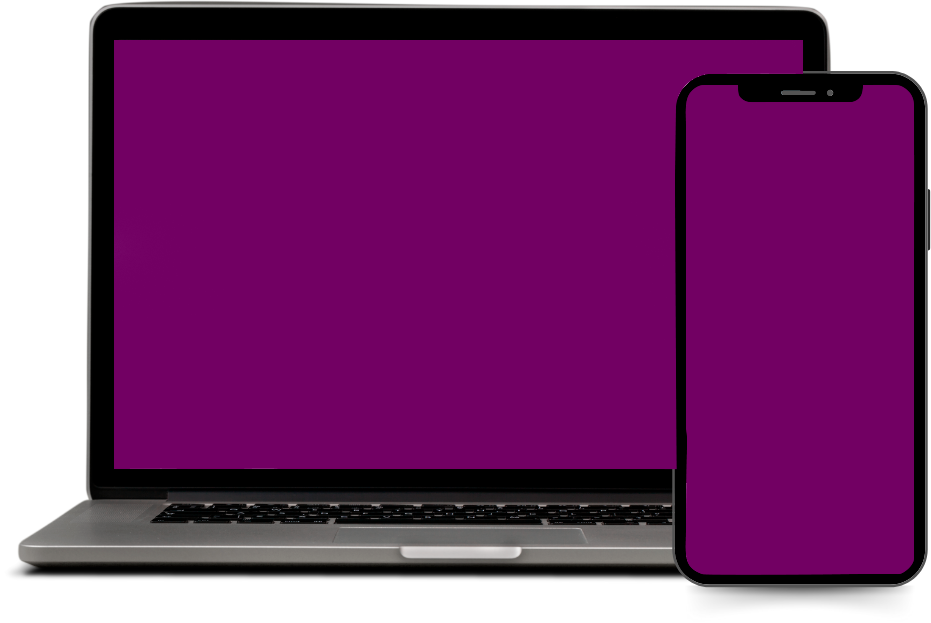
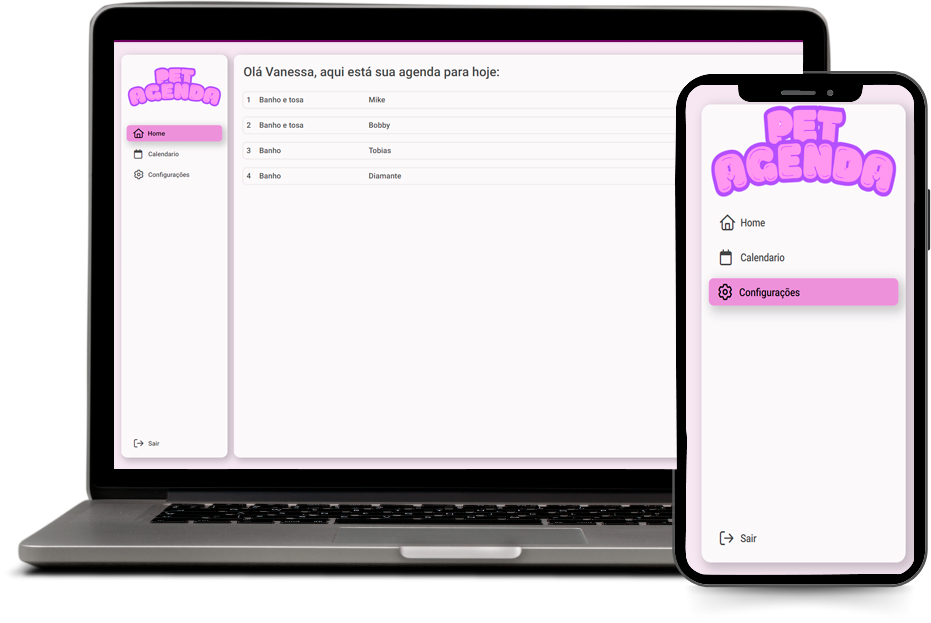
change last project

diff --git a/index.html b/index.html
@@ -40,17 +40,17 @@
                 </div>
             </div>
 
-            <!-- <div class="projeto card">
+            <div class="projeto card">
                 <div class="content-projeto">
                     <span class="text-projeto">Último projeto</span>
                     <div class="img-projeto">
                         <img src="image/projeto-destaque.png" alt="projeto">
                     </div>
                     <div class="btn-projeto">
-                        <a href="#" class="btn">Acesse o site</a>
+                        <a href="https://pet-agenda.netlify.app" class="btn" target="_blank">Acesse o site</a>
                     </div>
                 </div>
-            </div> -->
+            </div>
         </div>
 
         <!--WIDGET 2-->
